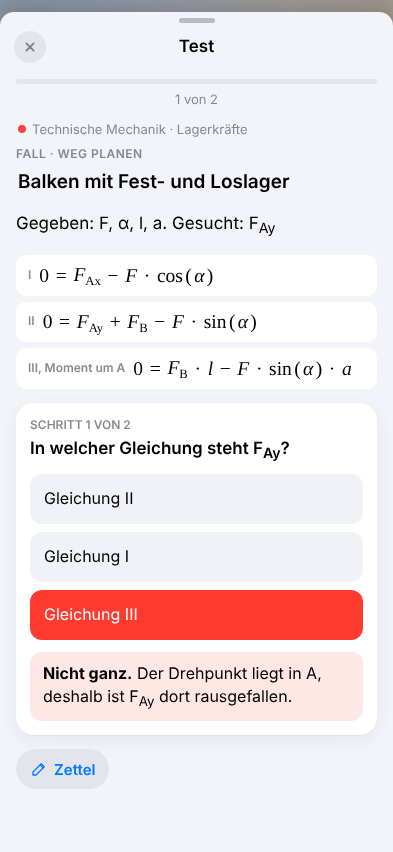
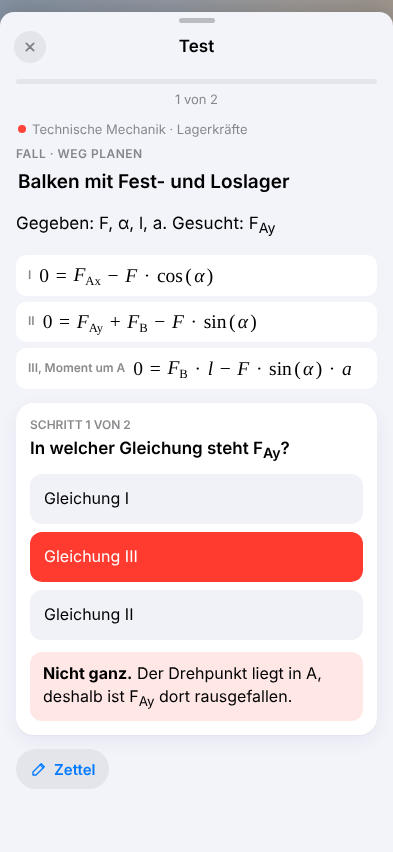
Vor der Arbeit alles abdecken, keine Bezüge auf Arbeitsblätter
- Neue Runde vor einer Arbeit (arbeitsRunde in js/store.js): aus allen Themen der Arbeit, alle Stufen, Plätze nach dem, was je Thema noch offen ist, Rechnen nur im Anteil der offenen Rechenaufgaben, dazu fällige Fehlerkarten
- Gilt für Lernplan, Unterricht und Alles wiederholen, sobald eine Arbeit in den nächsten 14 Tagen ansteht, und für „Themen der Arbeit üben“
- Karte der Arbeit zeigt, wie viele Fragen schon geübt sind und wie viele sitzen. Prüfungsbereitschaft zählt alle Stufen
- Bezüge auf Arbeitsblätter aus den eingebauten Inhalten entfernt. Der Lernstand der drei umformulierten Karten wandert mit
- Regel in CLAUDE.md und im Skill lernwerk-eingang: keine Bezüge auf Material
- Test: jede Runde enthält alle Themen, Rechnen höchstens die Hälfte, nach wenigen Runden war jede Frage dran
- Version 1.43.0

Claude-Session: https://claude.ai/code/session_01FHkXPQuLwwYgB5UqMsSTf8

Changed region(s): [[0.0611, 0.6103, 0.9466, 0.7629]]

diff --git a/js/app.js b/js/app.js
@@ -18,7 +18,7 @@ import * as eingang from './eingang.js';
 import { arbeitsZettel, zettelStand as arbeitsZettelStand, istGelernt } from './arbeitszettel.js';
 import { beiSchreibfehler } from './db.js';
 
-export const VERSION = '1.42.0';
+export const VERSION = '1.43.0';
 
 /* ===== Heute ===== */
 // Kurze, wechselnde Sätze für den Start. Ohne Druck.
@@ -151,6 +151,8 @@ const heute = {
             <div class="count-weiter">${tag.danach ? `<button data-a="plantag"><b>Nächsten Tag vorziehen</b><small>${esc(tag.danachText)}</small></button>` : ''}<button data-a="planschwach"><b>Schwächen üben</b><small>Fehler, falsche und wackelnde Fragen der Arbeit</small></button></div>${mehr}`
           : (zuLesen(ex, tag.aufgabe) ? `<button class="count-plan" data-a="planlesen">${icon('book')}<span><b>Heute: erst lesen, dann üben</b><small>${esc(st.thema(zuLesen(ex, tag.aufgabe)).thema.name)} im Lernzettel lesen und abhaken, dann kommen die Fragen dazu.</small></span>${icon('chev', 'chev')}</button>` : '')
             + `<button class="count-plan" data-a="plantag">${icon('bolt')}<span><b>${tag.aufgabe.art === 'schwach' ? 'Heute: Schwächen üben' : tag.aufgabe.vor ? 'Heute lernen, du bist vorne' : 'Heute lernen'}</b><small>${esc(tag.aufgabe.text)}</small></span>${icon('chev', 'chev')}</button>${mehr}`;
+      const abd = st.abdeckung(ex);
+      const abdHTML = abd.gesamt ? `<div class="count-abd">${progress(abd.gesehen / abd.gesamt, 'var(--accent)')}<small>${abd.gesehen} von ${abd.gesamt} Fragen schon geübt, ${abd.sitzt} sitzen.${abd.gesehen < abd.gesamt ? ' Bis zur Arbeit soll jede einmal drankommen.' : ''}</small></div>` : '';
       const fehlen = st.fehlendeThemen(ex);
       // Kurz vor der Arbeit: eine Probeklausur wie im Ernstfall zeigt am besten, was noch fehlt
       const lp = st.letzteProbe(ex.id);
@@ -164,7 +166,7 @@ const heute = {
       const fehlenHTML = fehlen.length ? `<button class="count-fehlt" data-a="exam" data-d="${ex.id}">${icon('plus')}<span>${fehlen.length === 1 ? '1 neues Thema ist' : fehlen.length + ' neue Themen sind'} noch nicht in der Arbeit: ${esc(fehlen.map(t => t.name).join(', '))}</span>${icon('chev', 'chev')}</button>` : '';
       T.arbeit = `<div class="sec-h">Nächste Klassenarbeit</div><div class="card count" style="--fc:${f ? f.farbe : 'var(--accent)'}"><button class="count-main" data-a="exam" data-d="${ex.id}">
         <div class="count-head"><span class="count-badge"><b>${d === 0 ? '!' : d}</b><small>${d === 0 ? 'heute' : d === 1 ? 'Tag' : 'Tage'}</small></span><span><div class="count-t">${esc(ex.fach)}</div><div class="muted">${esc(dayLong(ex.datum))}</div></span>${bereit != null ? `<span class="bereit">${ring(bereit / 100, 56, bereit >= 75 ? 'var(--green)' : bereit >= 45 ? 'var(--orange)' : 'var(--red)', `<b>${bereit}</b><small>%</small>`)}<small>vorbereitet</small></span>` : ''}</div>
-        </button>${zettelHTML}${fehlenHTML}${probeHTML}${fuss}</div>`;
+        </button>${abdHTML}${zettelHTML}${fehlenHTML}${probeHTML}${fuss}</div>`;
     }
     // Trainer und Hörmodus: je eine Kachel. Die Trainer liegen dahinter in Ordnern nach Fach.
     const tr = trainerOrdnerListe(today);
@@ -409,7 +411,7 @@ export function planTagLernen(ex, art) {
   if (!auf) return;
   if (auf.art === 'schwach') {
     const w = schwachItems(ex, z.n);
-    items = mitRechnen(w.items.slice(0, z.n), ex.themaIds || [], z.n, Math.min(z.rechnen, Math.ceil(z.n / 3)));
+    items = shuffle(w.items.slice(0, z.n));
     if (!w.echt && items.length) toast('Keine echten Schwächen gefunden. Ich nehme die unsichersten Fragen.');
     titel = 'Schwächen üben';
     // Freier Tag nach dem Vorarbeiten: die Schwächen-Runde zählt als Tagesziel
@@ -419,8 +421,8 @@ export function planTagLernen(ex, art) {
     planTag = p.datum;
     const nach = st.planNachholen(ex);
     const tids = p.art === 'wiederholen' || !p.themen.length ? (ex.themaIds || []) : [...new Set([...p.themen.map(x => x.thema.id), ...nach])];
-    const q = st.buildQueue((z.min || 15) * 60, { tids, exam: ex, mitFehlern: true, maxNeu: p.leicht ? 4 : 10 });
-    items = mitRechnen(q.items, tids, p.leicht ? Math.ceil(z.n / 2) : z.n, p.leicht ? Math.ceil(z.rechnen / 2) : z.rechnen);
+    // Alle Themen des Tages gleichmäßig, dazu etwas aus den anderen Themen der Arbeit, Rechnen nur in passendem Anteil
+    items = st.arbeitsRunde(ex, p.art === 'wiederholen' ? [] : tids, p.leicht ? Math.ceil(z.n / 2) : z.n);
     if (!items.length) items = sortForPractice(tids.flatMap(t => st.uebItems(t))).slice(0, z.n);
     titel = auf.vor ? 'Lernplan vorgezogen' : 'Lernplan heute';
     if (p.leicht) minuten = Math.ceil((z.min || 10) / 2);
@@ -472,11 +474,16 @@ function mitTrainer(items, z, vorne) {
 export function unterrichtQueue() { const t = aktTids(); return t.length ? st.buildQueue(900, { tids: t, mitFehlern: true }) : { items: [], sekunden: 0 }; }
 // Neue Karten nur aus Themen, die in einer Arbeit nicht gut liefen
 export function allesQueue() { return st.buildQueue(900, { maxNeu: st.nacharbeitThemen().size ? 6 : 0 }); }
+// Nächste Arbeit mit Themen in den nächsten 14 Tagen, oder null
+function baldArbeit() { const e = st.nextExam(dayStr()); return e && (e.themaIds || []).some(t => st.thema(t)) && daysBetween(dayStr(), e.datum) <= 14 ? e : null; }
 export function lernenUnterricht(z = lernzeit()) {
   const tids = aktTids();
   if (!tids.length) { toast('Wähl zuerst aus, was gerade im Unterricht dran ist.'); push(unterrichtPage()); return; }
   let items = unterrichtQueue().items;
-  items = mitTrainer(mitRechnen(items, tids, z.n, z.rechnen), z, tids);
+  // Arbeit in den nächsten 14 Tagen: Themen der Arbeit gleichmäßig, ohne zusätzliche Trainer-Rechnungen aus anderen Fächern
+  const exB = baldArbeit();
+  if (exB) items = st.arbeitsRunde(exB, tids.filter(t => (exB.themaIds || []).includes(t)), z.n);
+  else items = mitTrainer(mitRechnen(items, tids, z.n, z.rechnen), z, tids);
   if (!items.length) {
     items = sortForPractice(tids.flatMap(t => st.uebItems(t))).slice(0, z.n);
     if (items.length) toast('Gerade ist nichts fällig. Ich nehme Übungen aus deinen Unterrichtsthemen.');
@@ -539,6 +546,14 @@ export function lernenAlles(z = lernzeit()) {
   // Auffrischungen bleiben direkt hinter der ersten Übung ihres Themas
   const fertig = [];
   for (const it of runde) { fertig.push(it); const a = auff.find(x => x.tid === it.tid); if (a) { fertig.push(a); auff.splice(auff.indexOf(a), 1); } }
+  // Arbeit in den nächsten 14 Tagen: gut die Hälfte der Runde aus allen Themen der Arbeit, gleichmäßig verteilt
+  const exB = baldArbeit();
+  if (exB) {
+    const exT = new Set(exB.themaIds || []);
+    const sonst = fertig.filter(i => !exT.has(i.tid) && i.art !== 'auffrischen').slice(0, z.n - Math.ceil(z.n * 0.6));
+    const arbeit = st.arbeitsRunde(exB, [], z.n - sonst.length);
+    fertig.length = 0; fertig.push(...shuffle([...arbeit, ...sonst]));
+  }
   runSession(fertig, 'Alles wiederholen', { blind: true, minutes: z.min, onClose: () => refreshTop() });
 }
 

diff --git a/js/store.js b/js/store.js
@@ -59,6 +59,7 @@ export async function init() {
   S.planIds = planIds(plan);
 
   await loadBuiltin();
+  await kartenUmbenennen();
   await unterrichtVorgabe();
   await freigabeStart();
   if (!kvGet('ersterStart')) await kvSet('ersterStart', dayStr());
@@ -100,6 +101,20 @@ function upgradePlan(plan, base) {
   return plan;
 }
 
+// Eingebaute Karten mit neuem Fragetext: Der Lernstand wandert auf die neue Kennung. Die alte bleibt stehen.
+const UMBENANNT = [
+  ['m6-entgelt-arbeitsbewertung', 'Welche fünf Merkmale bewertet das ERA auf dem Arbeitsblatt?', 'Welche fünf Merkmale bewertet das ERA?'],
+  ['m6-entgelt-arbeitsbewertung', 'Welche Punktspanne hat Entgeltgruppe 12 auf dem Arbeitsblatt?', 'Welche Punktspanne hat Entgeltgruppe 12 im ERA?'],
+  ['m6-entgelt-arbeitsbewertung', 'Welche Punktspanne hat Entgeltgruppe 9 auf dem Arbeitsblatt?', 'Welche Punktspanne hat Entgeltgruppe 9 im ERA?']
+];
+async function kartenUmbenennen() {
+  for (const [tid, alt, neu] of UMBENANNT) {
+    const a = S.cards.get('k:' + tid + ':' + hash(norm(alt))), nid = 'k:' + tid + ':' + hash(norm(neu));
+    if (!a || S.cards.has(nid)) continue;
+    const c = Object.assign({}, a, { id: nid });
+    S.cards.set(nid, c); await db.put('cards', c);
+  }
+}
 async function loadBuiltin() {
   const idx = await fetchText('inhalte/index.json');
   if (!idx) return;
@@ -632,12 +647,74 @@ export async function verteileRest() {
 // Eine Frage zählt voll ab Wiederhol-Stufe 4, neue zählen 0. Jeder offene Fehler zieht 3 Punkte ab, höchstens 15.
 export function bereitschaft(ex) {
   const tids = (ex && ex.themaIds) || [];
-  const its = tids.flatMap(t => uebItems(t, 'frei'));
+  // Vor der Arbeit zählt alles, nicht nur die freigeschalteten Stufen
+  const its = tids.flatMap(t => uebItems(t, 'alles'));
   if (!its.length) return null;
   let s = 0;
   for (const it of its) { const c = S.cards.get(it.id); if (c) s += Math.min(c.stufe, 4) / 4; }
   const offen = S.errors.filter(e => !e.erledigt && tids.includes(e.tid)).length;
   return Math.max(0, Math.round(s / its.length * 100 - Math.min(15, 3 * offen)));
+}
+/* ===== Vor einer Arbeit: alle Themen gleichmäßig =====
+ * Reihum aus jedem Thema eine Frage, die Fragearten wechseln. Rechenaufgaben höchstens so oft, wie es dem Anteil der Themen
+ * mit Rechenaufgaben entspricht, damit sich eine Runde nicht an einer Rechnung festbeißt. Alle Stufen zählen.
+ * Reihenfolge je Thema: fällig, noch nie geübt, dann was am wenigsten sitzt.
+ */
+const zumRechnenArt = i => i.art === 'aufgabe' || i.art === 'umstellen';
+export function verteilt(tids, n, opt = {}) {
+  const today = dayStr(), ohne = opt.ohne || new Set();
+  const rang = it => { const c = S.cards.get(it.id); if (!c) return 1; if (c.faellig <= today) return 0; return 2 + Math.min(c.stufe || 0, 6); };
+  const alter = it => { const c = S.cards.get(it.id); return c ? (c.zeit || Date.parse((c.zuletzt || '2000-01-01') + 'T12:00')) : 0; };
+  const listen = shuffle(tids.filter(t => thema(t))).map(t => shuffle(uebItems(t, 'alles').filter(i => !ohne.has(i.id) && i.art !== 'fehler'))
+    .sort((a, b) => rang(a) - rang(b) || Math.floor(alter(a) / 864e5) - Math.floor(alter(b) / 864e5))).filter(l => l.length);
+  // Anteil der Rechnungen: so groß wie ihr Anteil an allem, was fällig oder noch nie dran war. Ist nichts mehr offen,
+  // höchstens halb so viel wie der Anteil der Themen mit Rechenaufgaben.
+  const offen = listen.flat().filter(i => rang(i) <= 1);
+  const mitR = listen.filter(l => l.some(zumRechnenArt)).length;
+  const maxR = offen.length ? Math.ceil(n * offen.filter(zumRechnenArt).length / offen.length) : listen.length ? Math.ceil(n * 0.5 * mitR / listen.length) : 0;
+  const out = [], letzte = new Map(), zahl = new Map();
+  let r = 0;
+  const nimm = l => {
+    const tid = l[0].tid, vor = letzte.get(tid), geht = i => !(zumRechnenArt(i) && r >= maxR);
+    let k = l.findIndex(i => geht(i) && i.art !== vor);
+    if (k < 0) k = l.findIndex(geht);
+    if (k < 0) { l.length = 0; return false; }
+    const it = l.splice(k, 1)[0];
+    out.push(it); letzte.set(tid, it.art); zahl.set(tid, (zahl.get(tid) || 0) + 1); if (zumRechnenArt(it)) r++;
+    return true;
+  };
+  // Erst aus jedem Thema eine Frage, damit nichts einschläft
+  for (const l of listen) if (out.length < n && l.length) nimm(l);
+  // Dann die übrigen Plätze dorthin, wo am meisten offen ist (fällig oder noch nie dran)
+  while (out.length < n && listen.some(l => l.length)) {
+    const kand = listen.filter(l => l.length);
+    const offenIn = l => l.filter(i => rang(i) <= 1).length;
+    kand.sort((x, y) => offenIn(y) / ((zahl.get(y[0].tid) || 0) + 1) - offenIn(x) / ((zahl.get(x[0].tid) || 0) + 1));
+    if (!nimm(kand[0]) && !kand.slice(1).some(l => l.length && nimm(l))) break;
+  }
+  return out;
+}
+// Runde für eine Arbeit: haupt sind die Themen des Tages (etwa 70 %), der Rest kommt aus den anderen Themen der Arbeit,
+// damit nichts einschläft. Dazu fällige Fehlerkarten der Arbeit.
+export function arbeitsRunde(ex, haupt, n) {
+  const alle = (ex.themaIds || []).filter(t => thema(t));
+  const h = (haupt && haupt.length ? haupt : alle).filter(t => thema(t));
+  const rest = alle.filter(t => !h.includes(t));
+  const today = dayStr();
+  const fehler = shuffle(S.errors.filter(e => !e.erledigt && alle.concat(h).includes(e.tid) && ((S.cards.get('f:' + e.id) || {}).faellig || today) <= today)).slice(0, Math.ceil(n / 6)).map(errorItem);
+  const m = n - fehler.length;
+  const a = verteilt(h, rest.length ? Math.ceil(m * 0.7) : m);
+  const b = rest.length ? verteilt(rest, m - a.length, { ohne: new Set(a.map(i => i.id)) }) : [];
+  const out = shuffle([...a, ...b]);
+  fehler.forEach((f, k) => out.splice(Math.min(out.length, 2 + k * 4), 0, f));
+  return out;
+}
+// Wie viel der Arbeit ist schon einmal geübt, wie viel sitzt (ab Wiederhol-Stufe 3)?
+export function abdeckung(ex) {
+  const its = (ex.themaIds || []).filter(t => thema(t)).flatMap(t => uebItems(t, 'alles'));
+  let gesehen = 0, sitzt = 0;
+  for (const it of its) { const c = S.cards.get(it.id); if (c) { gesehen++; if ((c.stufe || 0) >= 3) sitzt++; } }
+  return { gesamt: its.length, gesehen, sitzt };
 }
 // Serie: Tage am Stück gelernt, ein freier Tag pro Woche ist erlaubt
 export function lernSerie() { return serie([...S.events.filter(e => e.ok != null).map(e => dayStr(new Date(e.zeit))), ...Object.keys(kvGet('tage', {}))], dayStr()); }

diff --git a/js/arbeitszettel.js b/js/arbeitszettel.js
@@ -107,7 +107,7 @@ export function arbeitsZettel(exId, startTid) {
           toast(ok ? 'Text kopiert. In NotebookLM als Quelle „Kopierter Text“ einfügen.' : 'Kopieren hat nicht geklappt.');
         },
         fragen: async tid => { const x = await import('./engine.js'); const its = x.sortForPractice(st.topicItems(tid).filter(i => i.art !== 'fehler')).slice(0, 8); if (!its.length) { toast('Zu diesem Thema gibt es noch keine Fragen.'); return; } x.runSession(its, st.thema(tid).thema.name); },
-        ueben: async () => { const x = await import('./engine.js'); const q = st.buildQueue(1200, { tids, exam: ex, mitFehlern: true, maxNeu: 12 }); x.runSession(q.items.length ? q.items : x.sortForPractice(tids.flatMap(t => st.uebItems(t))).slice(0, 12), 'Arbeit: ' + ex.fach); }
+        ueben: async () => { const x = await import('./engine.js'); const its = st.arbeitsRunde(ex, [], 12); if (!its.length) { toast('Für diese Themen gibt es noch keine Übungen.'); return; } x.runSession(its, 'Arbeit: ' + ex.fach); },
       });
     }
   };

diff --git a/js/extra.js b/js/extra.js
@@ -195,7 +195,7 @@ export function termineDetail(id) {
         note: () => push(klausurPage(e.id)),
         zettel: async () => { const z = await import('./arbeitszettel.js'); push(z.arbeitsZettel(e.id)); },
         seite: id => oeffnen(id),
-        ueben: () => { const q = st.buildQueue(1200, { tids: tops.map(t => t.thema.id), exam: e, mitFehlern: true, maxNeu: 12 }); runSession(q.items.length ? q.items : sortForPractice(tops.flatMap(t => st.topicItems(t.thema.id))).slice(0, 12), 'Arbeit: ' + e.fach, { onClose: () => refreshTop() }); },
+        ueben: () => { const its = st.arbeitsRunde(e, [], 12); if (!its.length) { toast('Für diese Themen gibt es noch keine Übungen.'); return; } runSession(its, 'Arbeit: ' + e.fach, { onClose: () => refreshTop() }); },
         probe: () => push(probePage(e)),
         hoer: () => push(hoerPage({ exam: e }))
       });

diff --git a/sw.js b/sw.js
@@ -1,7 +1,7 @@
 // Service Worker: Offline-Nutzung und automatische Updates.
 // Bei jeder Änderung VERSION erhöhen (gleicher Wert wie in js/app.js).
 // Die neue Version installiert sich beim nächsten Öffnen von selbst.
-const VERSION = '1.42.0';
+const VERSION = '1.43.0';
 const CACHE = 'lernwerk-' + VERSION;
 const FILES = [
   './', 'index.html', 'manifest.webmanifest', 'css/app.css', 'lehrplan.json', 'lernwerk-bridge.js', 'lernwerk-speicher.js', 'js/sicherung.js', 'js/diagramm.js', 'js/abgleich.js', 'js/rueckfall.js', 'js/aufgabe.js', 'js/uebungen.js', 'js/schmierzettel.js', 'js/probeklausur.js', 'js/hoerseite.js', 'js/noten.js', 'js/lernseiten.js', 'js/eingang.js', 'js/arbeitszettel.js',

diff --git a/css/app.css b/css/app.css
@@ -950,3 +950,6 @@ body.seite-offen .tabbar, body.seite-offen #update { display: none; }
 .ausw-k { display: flex; flex-wrap: wrap; gap: 6px; margin-top: 8px; }
 .seiten-wdh { display: flex; flex-direction: column; gap: 6px; margin: 0 0 12px; }
 .seiten-wdh .count-plan { background: var(--bg2); border-radius: var(--r); box-shadow: var(--shadow); }
+
+.count-abd { padding: 6px 14px 2px; display: flex; flex-direction: column; gap: 4px; }
+.count-abd small { color: var(--label2); font-size: 13px; }

diff --git a/CLAUDE.md b/CLAUDE.md
@@ -139,6 +139,7 @@ Eingebaute Inhalte und eingefügte Blöcke laufen durch denselben Parser und die
 5. **Freies Abrufen vor Wiedererkennen.** Karten werden aufgedeckt und selbst bewertet. Auswahlfragen nur mit glaubwürdigen falschen Antworten, und zu jeder falschen Antwort steht, warum sie falsch ist (wie in den Trainern aus dem Chat).
 6. Rechenfächer (Mathematik, Elektrotechnik, Mechanik): Ansatz erkennen, Weg planen, durchgerechnetes Beispiel bei neuen Themen, dann frei rechnen, Zwillingsaufgabe. Lernfächer (Werkstofftechnik, Führung, Qualität, Ökonomie): aufdecken, erklären mit Kernpunkten, Skizze aus dem Kopf.
 7. Verteilt wiederholen (1, 2, 4, 7, 14, 30 Tage), gemischt üben, vor Arbeiten vorziehen. Was nicht saß, kommt in derselben Runde noch einmal.
+   **Am Tag der Arbeit muss alles sitzen, nicht nur ein Teil.** Vor einer Arbeit baut `arbeitsRunde` in `js/store.js` jede Runde aus allen Themen der Arbeit (alle Stufen), Rechnen nur im Anteil der offenen Rechenaufgaben, und sorgt dafür, dass jede Frage einmal drankommt. Nicht wieder auf feste Rechenquoten umstellen.
 8. So nah am Unterricht wie möglich, nicht tiefer. Nichts erfinden, vor allem keine Rechenaufgaben. Werte des Lehrers und des Tabellenbuchs haben Vorrang, Abweichungen mit „Achtung“ markieren.
 9. Kurz und einfach. Ein Konzept nach dem anderen. Wenig Lernzeit unterwegs: Alles muss in zwei bis zehn Minuten am Handy gehen.
 10. **Erst lernen, dann prüfen.** Wie im Lernzettel zur Klausur: Thema lesen und abhaken, dann Fragen dazu, am Ende Mini-Prüfungen je Thema und gemischt, dazu Fehler-Training.
@@ -163,6 +164,7 @@ Eingebaute Inhalte und eingefügte Blöcke laufen durch denselben Parser und die
 - Jede Formel bekommt eine Zeile „Aufbau:“. Jeder Rechenschritt wendet eine Formel an oder rechnet eine Einheit um.
 - Jede Aufgabe in eingebauten Inhalten braucht Ansatz, Signal und Kontrolle. Die richtige Antwort darf nicht durch ihre Länge auffallen.
 - Fakten sorgfältig prüfen. Bei Widersprüchen beide Angaben nennen und mit „Achtung“ markieren.
+- **Keine Bezüge auf Material** (Wunsch des Besitzers): nicht „auf dem Arbeitsblatt“, „Blatt 20“, „AB20“, „aus der Übungsklausur“, „laut Mitschrift“ schreiben. Aufgaben, Werte und Beispiele vollständig übernehmen, aber für sich stehend formulieren. Abweichende Werte des Lehrers als „Achtung, im Unterricht …“ nennen.
 
 ## Hörmodus-Audio
 

diff --git a/docs/ROADMAP.md b/docs/ROADMAP.md
@@ -27,6 +27,7 @@ Großer Optimierungsdurchgang im November 2026. Stand davor: Version 1.25.2, Zwe
 - [x] **Etappe 15, Version 1.40.0: Lernseiten, Lernzettel zur Arbeit, Eingang.** Artefakte aus dem Chat laufen als Lernseiten in der App, offline und abgeschottet, ihr Fortschritt wird gespeichert und abgeglichen. Lernzettel zur Klassenarbeit aus den Inhalten der Themen mit Häkchen, danach Probeklausur. Eingang im privaten Repository (`eingang/`) und `lernstand.md` für Claude. Hinweis: Das Nachbilden von localStorage ist in Chromium geprüft, in Safari auf dem iPhone noch nicht.
 - [x] **Etappe 16, Version 1.41.0: Lernmodell wie die Trainer aus dem Chat.** `Falsch:`-Zeilen geben zu jeder falschen Antwort eine eigene Rückmeldung. `Fall:` mit `Gleichung:` und `Schrittfrage:` für „Weg planen“ (Kennung `c:`). Lernzettel zur Arbeit mit Mini-Prüfungen je Thema und gemischt, bestem Ergebnis und Fehler-Training, „Fragen dazu“ nach dem Abhaken. Lernplan: neue Themen erst im Lernzettel lesen, dann üben. Skill `lernwerk-eingang` für automatisches Speichern.
 - [x] **Etappe 17, Version 1.42.0: Lernseiten mit der App verbunden.** Antworten aus Lernseiten zählen als Übung, falsche kommen ins Fehlerbuch und als Fehlerkarte in die Wiederholung, auch bei alten Trainern (Erkennung an ok und bad). Startseite: Lernseiten wiederholen (1, 3, 7, 14, 30 Tage) und Klassenarbeit auswerten (Note und schwache Themen). Text für NotebookLM aus Lernseiten und Lernzettel zur Arbeit.
+- [x] **Etappe 18, Version 1.43.0: Vor der Arbeit alles abdecken.** `verteilt` und `arbeitsRunde` in `js/store.js`: jede Runde aus allen Themen der Arbeit, alle Stufen, Plätze nach dem, was je Thema offen ist, Rechnen im Anteil der offenen Rechenaufgaben, dazu fällige Fehlerkarten. Gilt für Lernplan, Unterricht und Alles wiederholen (Arbeit in den nächsten 14 Tagen) und „Themen der Arbeit üben“. Karte der Arbeit zeigt, wie viele Fragen schon geübt sind. Prüfungsbereitschaft zählt alle Stufen. Bezüge auf Arbeitsblätter aus den eingebauten Inhalten entfernt, Lernstand umbenannter Karten bleibt.
 - [x] **Bauplan.** `CLAUDE.md`, diese Roadmap, `docs/BLOCKFORMAT.md`, Skill `lernwerk-etappe`, Browser-Prüfung `tools/pruefen/browser.mjs`.
 
 ## Offen

diff --git a/.claude/skills/lernwerk-eingang/SKILL.md b/.claude/skills/lernwerk-eingang/SKILL.md
@@ -32,4 +32,5 @@ Fehlt es: einmal kurz sagen, dass er eine neue Sitzung mit beiden Repositorys st
 
 - Nichts erfinden, vor allem keine Rechenaufgaben, die nicht im Material stehen. Werte des Lehrers und des Tabellenbuchs haben Vorrang, Abweichungen mit „Achtung“.
 - Fragen bewusst anders als im Material formulieren, damit er versteht und nicht nur wiedererkennt.
+- Keine Bezüge auf das Material: nicht „auf Blatt 20“, „AB20“, „aus der Übungsklausur“, „laut Mitschrift“, keine Markierungen wie „neu aus der Übungsklausur“. Alles vollständig übernehmen, aber für sich stehend.
 - Fotos und Namen nie in ein Repository. Nur der fertige Lernstoff.
